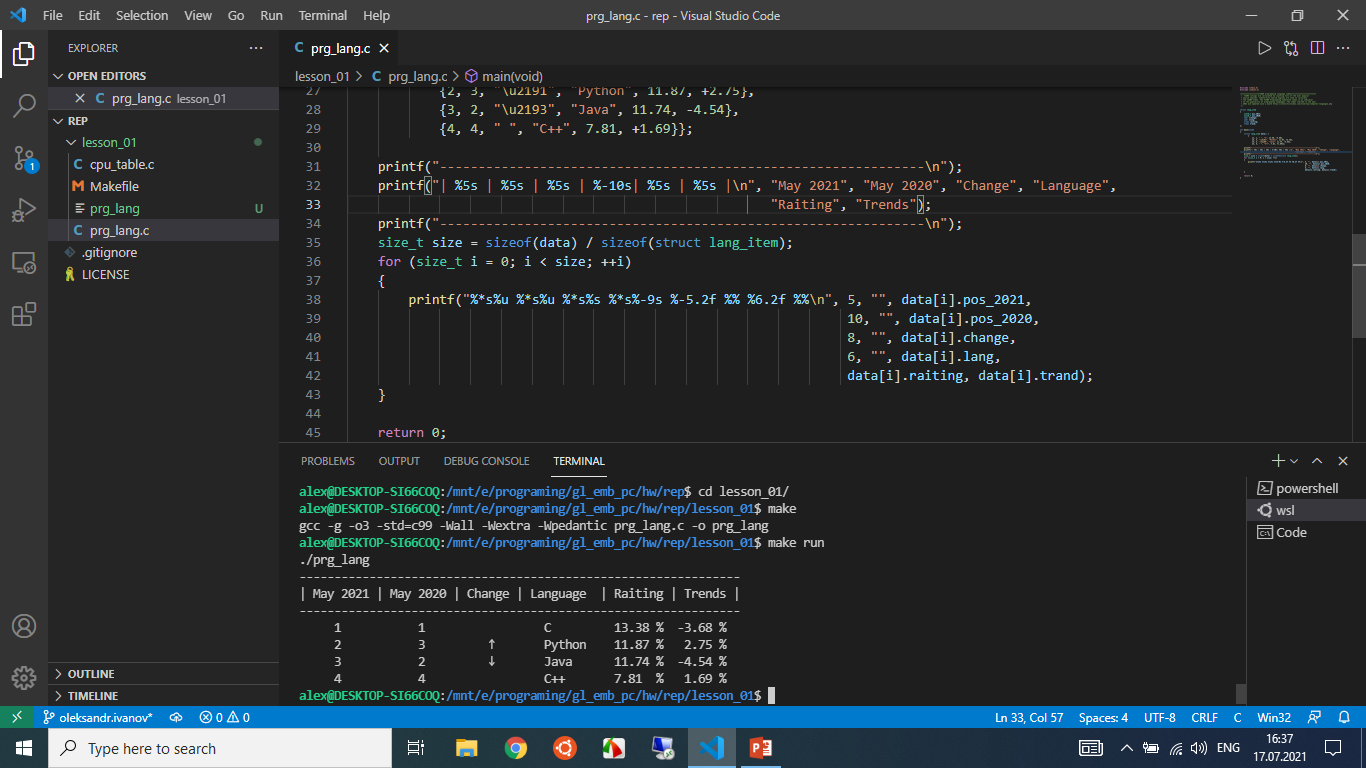
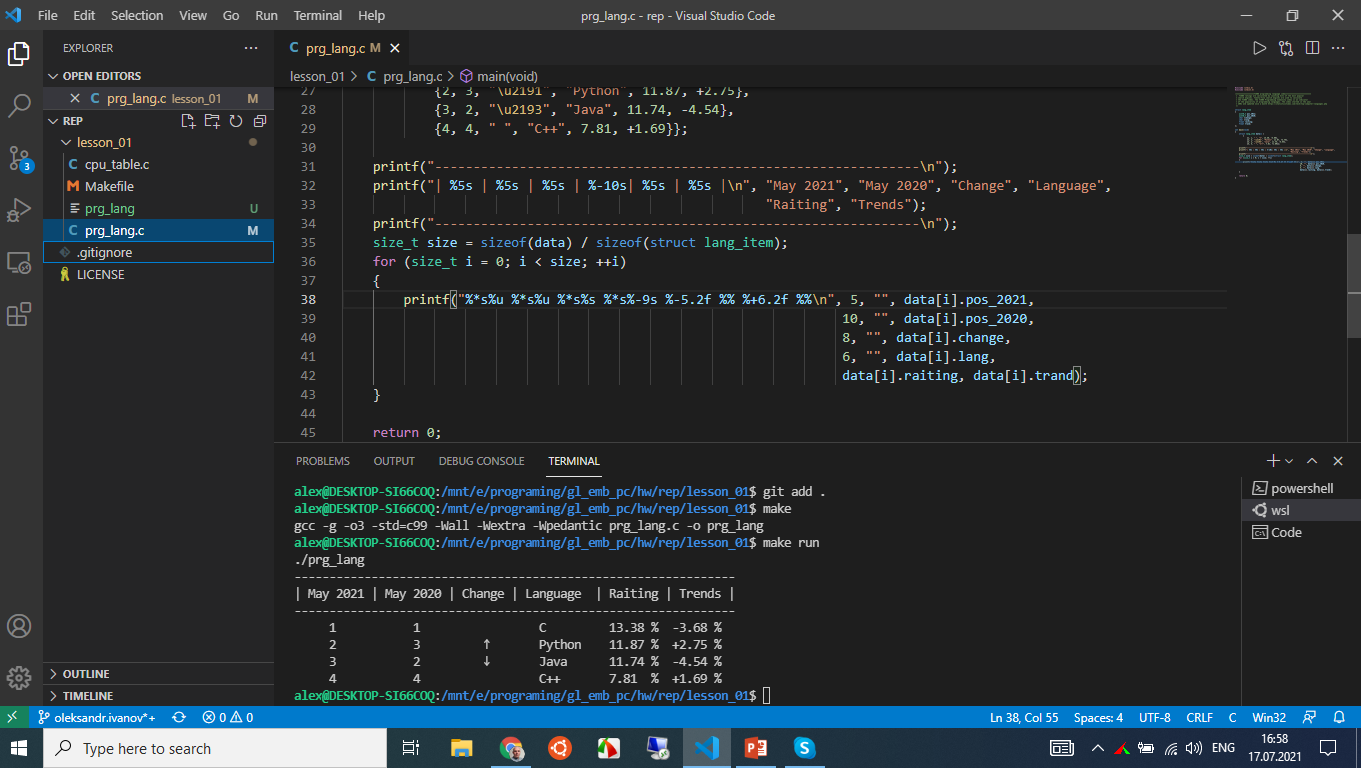
Added displaying "+" for Trands.

diff --git a/lesson_01/prg_lang.c b/lesson_01/prg_lang.c
@@ -35,7 +35,7 @@ int main(void)
     size_t size = sizeof(data) / sizeof(struct lang_item);
     for (size_t i = 0; i < size; ++i)
     {
-        printf("%*s%u %*s%u %*s%s %*s%-9s %-5.2f %% %6.2f %%\n", 5, "", data[i].pos_2021,
+        printf("%*s%u %*s%u %*s%s %*s%-9s %-5.2f %% %+6.2f %%\n", 5, "", data[i].pos_2021,
                                                                  10, "", data[i].pos_2020,
                                                                  8, "", data[i].change,
                                                                  6, "", data[i].lang,
